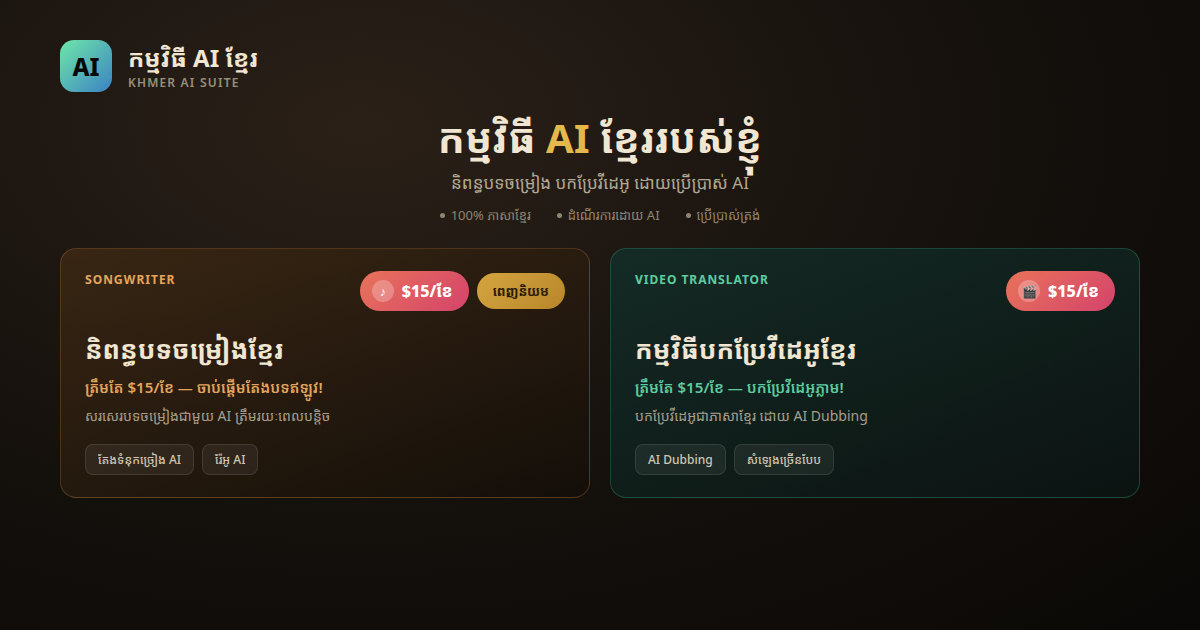
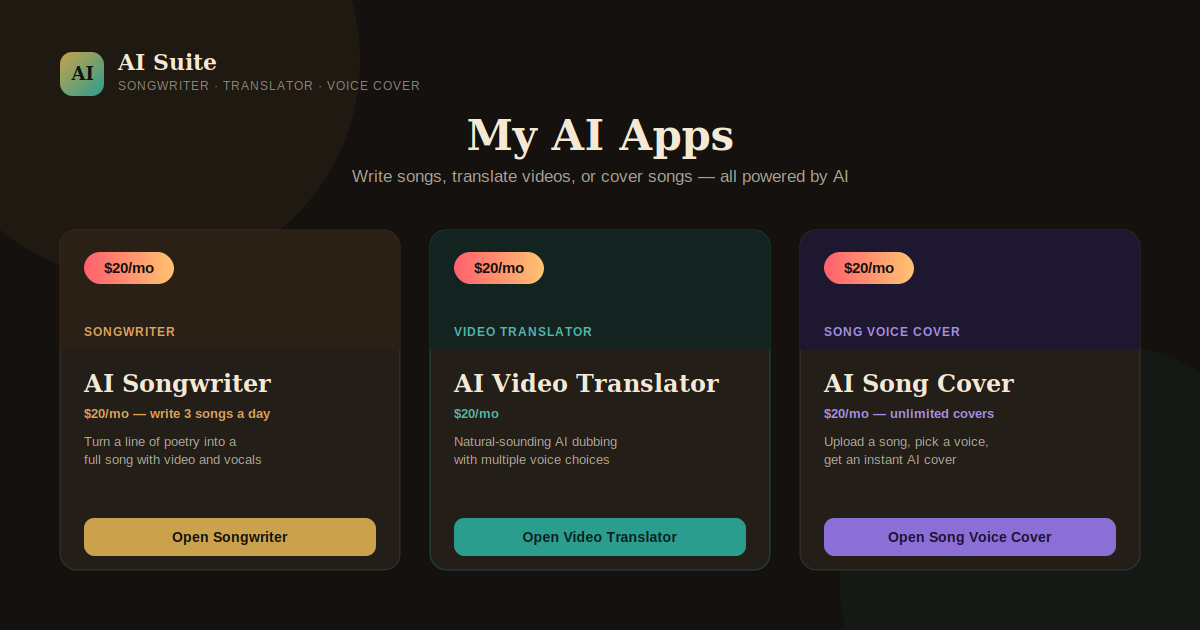
Add files via upload

diff --git a/public/index-en.html b/public/index-en.html
@@ -11,14 +11,14 @@
 <meta property="og:site_name" content="AI Suite">
 <meta property="og:title" content="AI Suite — Songwriter, Video Translator & Voice Cover">
 <meta property="og:description" content="Pick your AI app — write songs, translate videos, or cover songs with AI">
-<meta property="og:image" content="https://ai-apps-hub-u0wt.onrender.com/hub-og-cover.png?v=2">
+<meta property="og:image" content="https://ai-apps-hub-u0wt.onrender.com/hub-og-cover.png?v=3">
 <meta property="og:image:width" content="1200">
 <meta property="og:image:height" content="630">
 
 <meta name="twitter:card" content="summary_large_image">
 <meta name="twitter:title" content="AI Suite — Songwriter, Video Translator & Voice Cover">
 <meta name="twitter:description" content="Pick your AI app — write songs, translate videos, or cover songs with AI">
-<meta name="twitter:image" content="https://ai-apps-hub-u0wt.onrender.com/hub-og-cover.png?v=2">
+<meta name="twitter:image" content="https://ai-apps-hub-u0wt.onrender.com/hub-og-cover.png?v=3">
 
 <link rel="preconnect" href="https://fonts.googleapis.com">
 <link href="https://fonts.googleapis.com/css2?family=Battambang:wght@400;700&family=Inter:wght@400;500;600;700&display=swap" rel="stylesheet">
